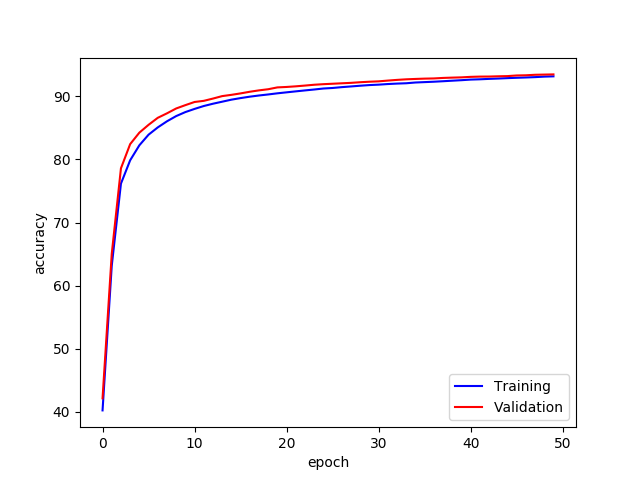
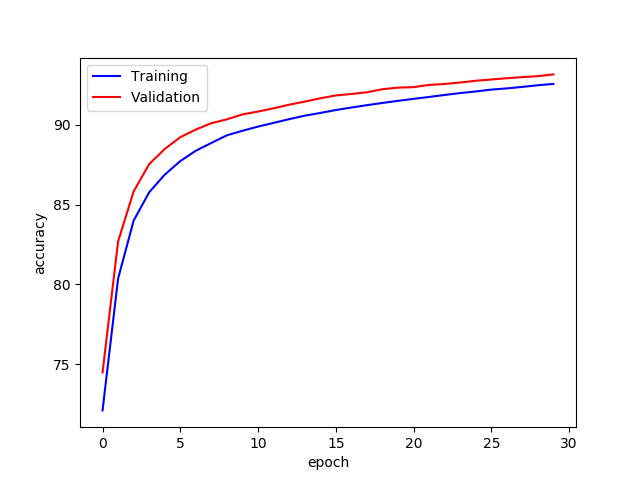
512, 256

diff --git a/Report_Practical/main.tex b/Report_Practical/main.tex
@@ -32,8 +32,8 @@ This report explains our approaches to solving the problems of the practical ass
 \subsection{Building model}
 
 \begin{enumerate}
-  \item Using the python script mlp.py under the folder problem~1  \cite{github}, we built an MLP with two hidden layers h1 (1024 hidden units), and h2 (512 hidden units).The total number of the parameters of this network is: 
-  $$ 784*512 + 512 + 512*1024 + 1024 + 1024*10 + 10 = 937,482 \approx 0.9 M$$
+  \item Using the python script mlp.py under the folder problem~1  \cite{github}, we built an MLP with two hidden layers h1 (512 hidden units), and h2 (256 hidden units).The total number of the parameters of this network is: 
+  $$ 784*512 + 512 + 512*256 + 256 + 256*10 + 10 = 535,818 \approx 0.5 M$$
   
   \item We implemented the forward and backward propagation for a flexible network that can include  any number of layers. This was done with the numpy package follwing the provided class structure and without the use of deep learning framework. (See python script mlp.py under problem 1 folder).
   
@@ -42,15 +42,15 @@ This report explains our approaches to solving the problems of the practical ass
 \end{enumerate}
 
 \subsection{Initialization}
-We consider a model architecture of two hidden layers h1  with 24 hidden units and h2  with 12 hidden units, and a total number of 19270 parameters. We chose RELU as an activation function, a learning rate of 0.01 and a mini-batch size of 1000.
+We consider a model architecture of two hidden layers h1  with 512 hidden units and h2  with 256 hidden units, and a total number of 535,818 parameters. We chose RELU as an activation function, a learning rate of 0.01 and a mini-batch size of 64.
 \begin{enumerate}
   \item We trained the model for 10 epochs using the 3 initialization methods (Zero, normal and glorot) and we recorded the average
 loss measured for each method.
 
 \begin{itemize}
   \item Zero initialization(Figure 1): 2.3, 2.3, 2.3, 2.3, 2.3, 2.3, 2.3, 2.3, 2.3, 2.3
-  \item Normal initialization(Figure 2): 3.41, 2.25, 2.20, 2.18, 2.16, 2.15, 2.13, 2.11, 2.08, 2.03
-  \item Glorot initialization(Figure 3): 1.55, 0.55, 0.40, 0.35, 0.32, 0.30, 0.29, 0.27, 0.26, 0.25
+  \item Normal initialization(Figure 2): inf, inf, 4.37, 2.90, 2.15, 1.67, 1.35, 1.11, 0.94, 0.80
+  \item Glorot initialization(Figure 3): 0.85, 0.36, 0.30, 0.27, 0.24, 0.22, 0.21, 0.19, 0.18, 0.17
 \end{itemize}
 
 \item We plot the losses against the training time (epoch) using each initialization method (Figures \ref{fig:init1}, \ref{fig:init2} and \ref{fig:init3}). We conclude from the plots that the glorot initialization is the best among the methods in which the loss decreases rapidly at each epoch whereas, for the zero initialization, the loss decreases very slowly. An explanation for this is that by initializing all the weights to zero, all the hidden nodes will have the same value and the network will learn just one function. This is called the symmetry problem, which is dealt with by initializing the weights randomly (as in the cases of Glorot and normal initializations)\cite{weights}.
@@ -81,8 +81,8 @@ loss measured for each method.
 \begin{enumerate}
 
 \item
-The combination of hyper-parameters that we found in which the average accuracy rate on the validation set reach 97.2\% accuracy:
-Since we have the freedom to examine a variation of different architectures and hyperparameters, we chose a network with 2 hidden layers h1 (64 hidden units) and h2 (32 hidden units) with a total number of 52650 parameters. We chose Relu activation, a learning rate of 0.01, a mini batch size of 64, and the number of epochs as 50. (See Figure \ref{fig:hyper}).
+The combination of hyper-parameters that we found in which the average accuracy rate on the validation set reach 97.3\% accuracy:
+Since we have the freedom to examine a variation of different architectures and hyperparameters, we chose a network with 2 hidden layers h1 (512 hidden units) and h2 (256 hidden units) with a total number of 535,818 parameters. We chose Relu activation, a learning rate of 0.01, a mini batch size of 64, the number of epochs as 30 and the glorot initialization. (See Figure \ref{fig:hyper}).
 
 \item 
 We tried different hyper-parameters for learning rate, different network architectures, batch sizes and activation functions (Tanh, Relu, Sigmoid).
@@ -92,12 +92,14 @@ We tried different hyper-parameters for learning rate, different network archite
 
 \begin{itemize}
 
-\item learning rate of 0.01: validation accuracy = 97.2\% (See Figure \ref{fig:hyper}).
+\item learning rate of 0.01: validation accuracy = 97.3\% (See Figure \ref{fig:hyper}).
 
-\item learning rate of 0.1: validation accuracy = 97.6\% (See Figure \ref{fig:lr2}).
+\item learning rate of 0.1: validation accuracy = 98.1\% (See Figure \ref{fig:lr2}).
 
-\item learning rate of 0.001: validation accuracy = 93\% (See Figure \ref{fig:lr3}).  
-  
+\item learning rate of 0.001: validation accuracy = 92.6\% (See Figure \ref{fig:lr3}).  
+ 
+\item learning rate of 0.7: validation accuracy = 98.4\% (See Figure \ref{fig:lr4}). 
+ 
 \end{itemize}
 
 \begin{figure}
@@ -118,7 +120,15 @@ We tried different hyper-parameters for learning rate, different network archite
 \caption{\label{fig:lr3}Validation accuracy against the training time (epoch) using a learning rate of 0.001.}
 \end{figure}
 
-We observe that when the learning rate is 0.1, the model overfits the training set while doing badly on the validation set. On the other hand, choosing a smaller learning rate (0.01) leads to a better performance on both training and validation sets i.e. not overfitting the training set while doing better on the validation set. 
+\begin{figure}
+	\centering
+	\includegraphics[width=0.7\textwidth]{lr4.png}
+	\caption{\label{fig:lr4}Validation accuracy against the training time (epoch) using a learning rate of 0.7.}
+\end{figure}
+
+We observe that when the learning rate is low, training is more reliable, however, it takes much more time to converge. On the other hand, if the learning rate is high, then training may not converge and we observe unstable learning curve (since the weight changes is big and overshoot the local min).   
+
+%We observe that when the learning rate is 0.1, the model overfits the training set while doing badly on the validation set. On the other hand, choosing a smaller learning rate (0.01) leads to a better performance on both training and validation sets i.e. not overfitting the training set while doing better on the validation set. 
 
 %\subsubsection{Number of epochs}
 %We keep the same settings and we only change the number of epochs.
@@ -150,11 +160,11 @@ We observe that when the learning rate is 0.1, the model overfits the training s
 
 \begin{itemize}
 
-\item number of mini-batches of 64: validation accuracy = 97.2\% (See Figure \ref{fig:hyper}).
+\item number of mini-batches of 64: validation accuracy = 97.3\% (See Figure \ref{fig:hyper}).
 
 \item number of mini-batches of 8: validation accuracy = 97.4\% (See Figure \ref{fig:batch2}).
 
-\item number of mini-batches of 512: validation accuracy = 93.4\% (See Figure \ref{fig:batch3}).  
+\item number of mini-batches of 512: validation accuracy = 93.1\% (See Figure \ref{fig:batch3}).  
   
 \end{itemize}
 We observe that the model performs better when the batch size is large.

diff --git a/Problem 1/mlp.py b/Problem 1/mlp.py
@@ -172,8 +172,19 @@ class NN(object):
 		#y_hat is the probability after softmax
 		#y is one hot vector
 		log_likelihood = -np.log(y_hat)*y
-		loss = np.sum(log_likelihood) / m
+		#print(type(log_likelihood))
 
+		#Transform nan values to 0 (nan = infinity * 0), this is optional
+		a = np.isnan(log_likelihood)
+		log_likelihood[a] = 0
+		#print(y_hat[0, :])
+		#print(-np.log(y_hat)[0, :])
+		#print(log_likelihood[0, :])
+
+		#print(y[0, :])
+	
+		#print(np.sum(log_likelihood))
+		loss = np.sum(log_likelihood) / m
 		return loss
 
 
@@ -312,7 +323,7 @@ class NN(object):
 
 		return parameters
 
-	def train(self, iterations, init_method, learning_rate, X, labels, mini_batch=64, act_function="relu"):
+	def train(self, iterations, init_method, learning_rate, X, labels, mini_batch=512, act_function="relu"):
 
 		#One hot encoding of labels
 		y = np.eye(self.n_class)[labels]
@@ -390,7 +401,7 @@ class NN(object):
 			val_acc.append(acc)
 
 		#Plot loss curve
-		self.visualize_loss(avg_loss, iterations, 'Training loss')
+		self.visualize_loss(avg_loss, init_method, 'Training loss')
 
 		#Plot training & validation accuracy curve
 		self.visualize_acc(train_acc, val_acc, 'Training', 'Validation')
@@ -404,7 +415,7 @@ class NN(object):
 		plt.figure()
 
 		plt.plot(epochs, x, 'b', label=label)
-		plt.title(str(title)+" epochs")
+		plt.title(str(title)+" initializaton method")
 		plt.xlabel('epoch')
 		plt.ylabel('loss')
 		plt.legend()
@@ -483,24 +494,13 @@ class NN(object):
 
 if __name__ == '__main__':
 
-	nn = NN(hidden_dims=(10, 5), n_hidden=2, datapath='./datasets/mnist.pkl.npy')
+	nn = NN(hidden_dims=(512, 256), n_hidden=2, datapath='./datasets/mnist.pkl.npy')
 	print("train/val/test: "+str(nn.dim_data))
 
-	#parameters = nn.initialize_weights(init_method='zeros')
+	parameters = nn.train(10,'glorot', 20, nn.D_train[0], nn.D_train[1], mini_batch=64, act_function="relu")
+	sd
 
-	#for key, value in parameters.iteritems() :
-	#	print key, value.shape
-
-	#out, cache = nn.forward(nn.D_train[0], parameters)
-
-	#for key, value in cache.iteritems() :
-	#	print key, value.shape
-
-<<<<<<< HEAD:mlp.py
-	parameters = nn.train(50,'glorot', 0.5, nn.D_train[0], nn.D_train[1], mini_batch=64, act_function="tanh")
-=======
 	# parameters = nn.train(50,'glorot', 0.01, nn.D_train[0], nn.D_train[1], mini_batch=64, act_function="tanh")
->>>>>>> 2aea1529e88ea2737893454fd7bc37ce91a99583:Problem 1/mlp.py
 	#print('Test Acc : %.3f ' % nn.test(nn.D_train[0], nn.D_train[1], parameters))
 	#parameters = nn.train(20, 'glarot', 0.01, nn.D_train[0], nn.D_train[1])
 	#print('-----training')
